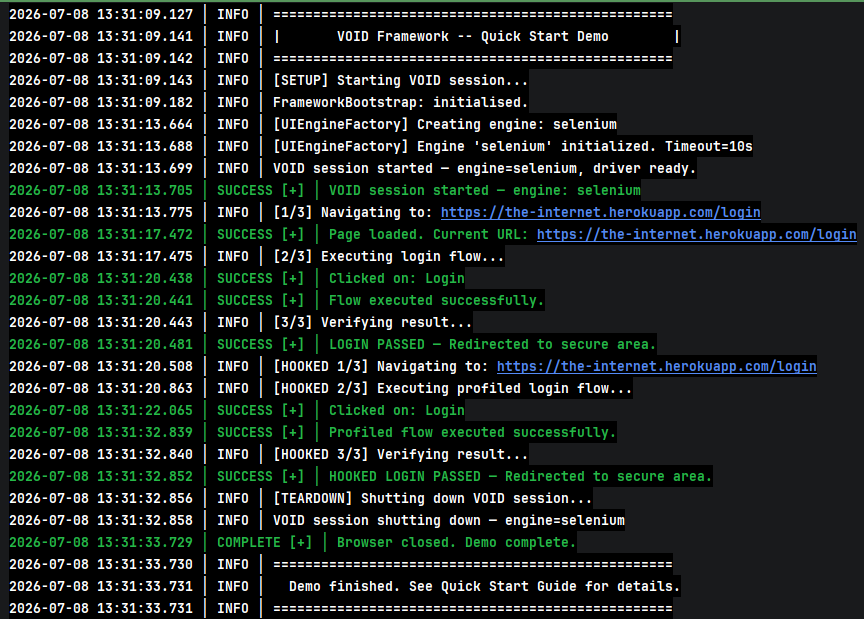
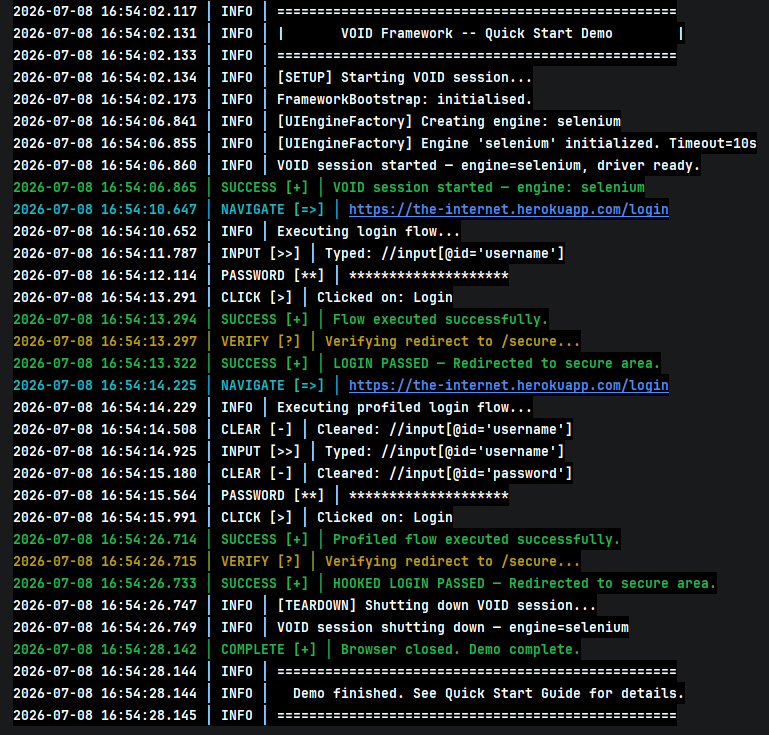
feat(logging): add VERIFY log intent with distinct yellow color
Introduce a dedicated VERIFY intent so verification steps are visually
distinct from plain OBSERVE/result logs, which previously shared the
same amber/yellow and were indistinguishable from warnings.

- Add LogIntent.VERIFY between OBSERVE and DATA
- Add ThemeColors.verifyFg field, accessor, builder method, and
  resolve() case
- Update all 8 built-in themes: observeFg changed to non-yellow
  (magenta/lavender), verifyFg set to original amber/yellow value
- Add LogActions.verifying() action method using VERIFY intent
- Replace info.result() with info.verifying() in VoidDemo assertions

diff --git a/src/main/java/core/logging/theme/BuiltInThemes.java b/src/main/java/core/logging/theme/BuiltInThemes.java
@@ -21,7 +21,8 @@ public final class BuiltInThemes {
             .debugFg (FG_WHITE             + BOLD)
             .interactionFg (FG_BRIGHT_WHITE      + BOLD)
             .navigationFg  (RGB_FG_DEEP_CYAN     + BOLD)
-            .observeFg     (RGB_FG_DEEP_AMBER    + BOLD)
+            .observeFg     (RGB_FG_LAVENDER      + BOLD)
+            .verifyFg      (RGB_FG_DEEP_AMBER    + BOLD)
             .dataFg        (RGB_FG_DEEP_VIOLET   + BOLD)
             .successFg     (RGB_FG_DEEP_GREEN    + BOLD)
             .alertFg       (RGB_FG_DEEP_RED      + BOLD)
@@ -40,7 +41,8 @@ public final class BuiltInThemes {
             .debugFg ("\u001B[38;2;101;123;131m")
             .interactionFg ("\u001B[38;2;131;148;150m" + BOLD)
             .navigationFg  ("\u001B[38;2;28;138;195m"  + BOLD)
-            .observeFg     ("\u001B[38;2;175;130;0m"   + BOLD)
+            .observeFg     (FG_BRIGHT_MAGENTA           + BOLD)
+            .verifyFg      ("\u001B[38;2;175;130;0m"   + BOLD)
             .dataFg        ("\u001B[38;2;100;100;188m" + BOLD)
             .successFg     ("\u001B[38;2;110;145;0m"   + BOLD)
             .alertFg       ("\u001B[38;2;195;55;20m"   + BOLD)
@@ -59,7 +61,8 @@ public final class BuiltInThemes {
             .debugFg (FG_BRIGHT_BLACK   + BOLD)
             .interactionFg (FG_BRIGHT_WHITE    + BOLD)
             .navigationFg  (RGB_FG_DEEP_CYAN   + BOLD)
-            .observeFg     (RGB_FG_DEEP_AMBER  + BOLD)
+            .observeFg     (FG_BRIGHT_MAGENTA  + BOLD)
+            .verifyFg      (RGB_FG_DEEP_AMBER  + BOLD)
             .dataFg        (RGB_FG_DEEP_VIOLET + BOLD)
             .successFg     (RGB_FG_DEEP_GREEN  + BOLD)
             .alertFg       (RGB_FG_DEEP_RED    + BOLD)
@@ -78,7 +81,8 @@ public final class BuiltInThemes {
             .debugFg (RGB_FG_COOL_GREY     + BOLD)
             .interactionFg (RGB_FG_SNOW_WHITE  + BOLD)
             .navigationFg  (RGB_FG_DEEP_CYAN   + BOLD)
-            .observeFg     (RGB_FG_DEEP_AMBER  + BOLD)
+            .observeFg     (FG_BRIGHT_MAGENTA  + BOLD)
+            .verifyFg      (RGB_FG_DEEP_AMBER  + BOLD)
             .dataFg        (RGB_FG_DEEP_VIOLET + BOLD)
             .successFg     (RGB_FG_DEEP_GREEN  + BOLD)
             .alertFg       (RGB_FG_DEEP_RED    + BOLD)
@@ -97,7 +101,8 @@ public final class BuiltInThemes {
             .debugFg (RGB_FG_COOL_GREY)
             .interactionFg (RGB_FG_SNOW_WHITE  + BOLD)
             .navigationFg  (RGB_FG_DEEP_CYAN   + BOLD)
-            .observeFg     (RGB_FG_DEEP_AMBER  + BOLD)
+            .observeFg     (FG_BRIGHT_MAGENTA  + BOLD)
+            .verifyFg      (RGB_FG_DEEP_AMBER  + BOLD)
             .dataFg        (RGB_FG_DEEP_VIOLET + BOLD)
             .successFg     (RGB_FG_DEEP_GREEN  + BOLD)
             .alertFg       (RGB_FG_DEEP_RED    + BOLD)
@@ -116,7 +121,8 @@ public final class BuiltInThemes {
             .debugFg ("\u001B[38;2;110;118;130m")
             .interactionFg (RGB_FG_SNOW_WHITE  + BOLD)
             .navigationFg  (RGB_FG_DEEP_CYAN   + BOLD)
-            .observeFg     (RGB_FG_DEEP_AMBER  + BOLD)
+            .observeFg     (FG_BRIGHT_MAGENTA  + BOLD)
+            .verifyFg      (RGB_FG_DEEP_AMBER  + BOLD)
             .dataFg        (RGB_FG_DEEP_VIOLET + BOLD)
             .successFg     (RGB_FG_DEEP_GREEN  + BOLD)
             .alertFg       (RGB_FG_DEEP_RED    + BOLD)
@@ -136,6 +142,7 @@ public final class BuiltInThemes {
             .interactionFg (RGB_FG_DEEP_PINK   + BOLD)
             .navigationFg  (RGB_FG_DEEP_CYAN   + BOLD)
             .observeFg     (RGB_FG_DEEP_GREEN  + BOLD)
+            .verifyFg      (FG_BRIGHT_YELLOW   + BOLD)
             .dataFg        (RGB_FG_DEEP_AMBER  + BOLD)
             .successFg     (RGB_FG_DEEP_GREEN  + BOLD)
             .alertFg       (RGB_FG_DEEP_RED    + BOLD)
@@ -154,7 +161,8 @@ public final class BuiltInThemes {
             .debugFg (RGB_FG_WARM_GREY)
             .interactionFg (RGB_FG_DEEP_ORANGE + BOLD)
             .navigationFg  (RGB_FG_DEEP_CYAN   + BOLD)
-            .observeFg     (RGB_FG_DEEP_ORANGE + BOLD)
+            .observeFg     (FG_BRIGHT_MAGENTA  + BOLD)
+            .verifyFg      (FG_BRIGHT_YELLOW   + BOLD)
             .dataFg        (RGB_FG_DEEP_VIOLET + BOLD)
             .successFg     (RGB_FG_DEEP_GREEN  + BOLD)
             .alertFg       (RGB_FG_DEEP_RED    + BOLD)

diff --git a/src/main/java/core/logging/theme/ThemeColors.java b/src/main/java/core/logging/theme/ThemeColors.java
@@ -35,6 +35,7 @@ public final class ThemeColors {
     private final String interactionFg;
     private final String navigationFg;
     private final String observeFg;
+    private final String verifyFg;
     private final String dataFg;
     private final String successFg;
     private final String alertFg;
@@ -55,6 +56,7 @@ public final class ThemeColors {
         this.interactionFg = b.interactionFg;
         this.navigationFg  = b.navigationFg;
         this.observeFg     = b.observeFg;
+        this.verifyFg      = b.verifyFg;
         this.dataFg        = b.dataFg;
         this.successFg     = b.successFg;
         this.alertFg       = b.alertFg;
@@ -74,6 +76,7 @@ public final class ThemeColors {
     public String interactionFg() { return interactionFg; }
     public String navigationFg()  { return navigationFg; }
     public String observeFg()     { return observeFg; }
+    public String verifyFg()      { return verifyFg; }
     public String dataFg()        { return dataFg; }
     public String successFg()     { return successFg; }
     public String alertFg()       { return alertFg; }
@@ -102,6 +105,7 @@ public final class ThemeColors {
             case INTERACTION -> interactionFg;
             case NAVIGATION  -> navigationFg;
             case OBSERVE     -> observeFg;
+            case VERIFY      -> verifyFg;
             case DATA        -> dataFg;
             case SUCCESS     -> successFg;
             case ALERT       -> alertFg;
@@ -129,12 +133,13 @@ public final class ThemeColors {
         private String debugFg = FG_BRIGHT_WHITE + BOLD;
 
         // Intent foregrounds
-        private String interactionFg = FG_BRIGHT_WHITE  + BOLD;
-        private String navigationFg  = FG_BRIGHT_CYAN   + BOLD;
-        private String observeFg     = FG_BRIGHT_YELLOW + BOLD;
-        private String dataFg        = FG_BRIGHT_WHITE  + BOLD;
-        private String successFg     = FG_BRIGHT_GREEN  + BOLD;
-        private String alertFg       = FG_BRIGHT_RED    + BOLD;
+        private String interactionFg = FG_BRIGHT_WHITE   + BOLD;
+        private String navigationFg  = FG_BRIGHT_CYAN    + BOLD;
+        private String observeFg     = FG_BRIGHT_MAGENTA + BOLD;
+        private String verifyFg      = FG_BRIGHT_YELLOW  + BOLD;
+        private String dataFg        = FG_BRIGHT_WHITE   + BOLD;
+        private String successFg     = FG_BRIGHT_GREEN   + BOLD;
+        private String alertFg       = FG_BRIGHT_RED     + BOLD;
 
         private String callerFg = FG_BRIGHT_BLACK;
         private String reset    = RESET;
@@ -154,6 +159,7 @@ public final class ThemeColors {
         public Builder interactionFg(String fg) { this.interactionFg = fg; return this; }
         public Builder navigationFg(String fg)  { this.navigationFg  = fg; return this; }
         public Builder observeFg(String fg)     { this.observeFg     = fg; return this; }
+        public Builder verifyFg(String fg)      { this.verifyFg      = fg; return this; }
         public Builder dataFg(String fg)        { this.dataFg        = fg; return this; }
         public Builder successFg(String fg)     { this.successFg     = fg; return this; }
         public Builder alertFg(String fg)       { this.alertFg       = fg; return this; }

diff --git a/src/main/java/core/logging/render/LogActions.java b/src/main/java/core/logging/render/LogActions.java
@@ -65,6 +65,9 @@ public class LogActions {
     public void search(String message)     { logMessage(LogIntent.OBSERVE,     "SEARCHED [*]",    message); }
     public void result(String message)     { logMessage(LogIntent.OBSERVE,     "RESULT [:]",      message); }
 
+    // ── VERIFY group ──────────────────────────────────────────────────────────
+    public void verifying(String message)  { logMessage(LogIntent.VERIFY,      "VERIFY [?]",      message); }
+
     // ── DATA group ────────────────────────────────────────────────────────────
     public void table(String message)      { logMessage(LogIntent.DATA,        "TABLE [=]",       message); }
     public void grid(String message)       { logMessage(LogIntent.DATA,        "GRID [#]",        message); }

diff --git a/src/main/java/tests/demo/VoidDemo.java b/src/main/java/tests/demo/VoidDemo.java
@@ -64,7 +64,7 @@ public class VoidDemo {
         ));
         info.success("Flow executed successfully.");
 
-        info.result("Verifying redirect to /secure...");
+        info.verifying("Verifying redirect to /secure...");
         String currentUrl = app.getCurrentUrl();
         Assert.assertTrue(currentUrl.contains("/secure"),
                 "Expected URL to contain '/secure' but was: " + currentUrl);
@@ -124,7 +124,7 @@ public class VoidDemo {
         ));
         info.success("Profiled flow executed successfully.");
 
-        info.result("Verifying redirect to /secure...");
+        info.verifying("Verifying redirect to /secure...");
         String currentUrl = app.getCurrentUrl();
         Assert.assertTrue(currentUrl.contains("/secure"),
                 "Expected URL to contain '/secure' but was: " + currentUrl);

diff --git a/src/main/java/core/logging/intent/LogIntent.java b/src/main/java/core/logging/intent/LogIntent.java
@@ -15,6 +15,8 @@ public enum LogIntent {
     NAVIGATION,
     /** Observing / reading: wait, search, result. */
     OBSERVE,
+    /** Active verification step: verifying, asserting. */
+    VERIFY,
     /** Structured data: table, grid, row. */
     DATA,
     /** Positive outcome: success, complete, resolved. */
